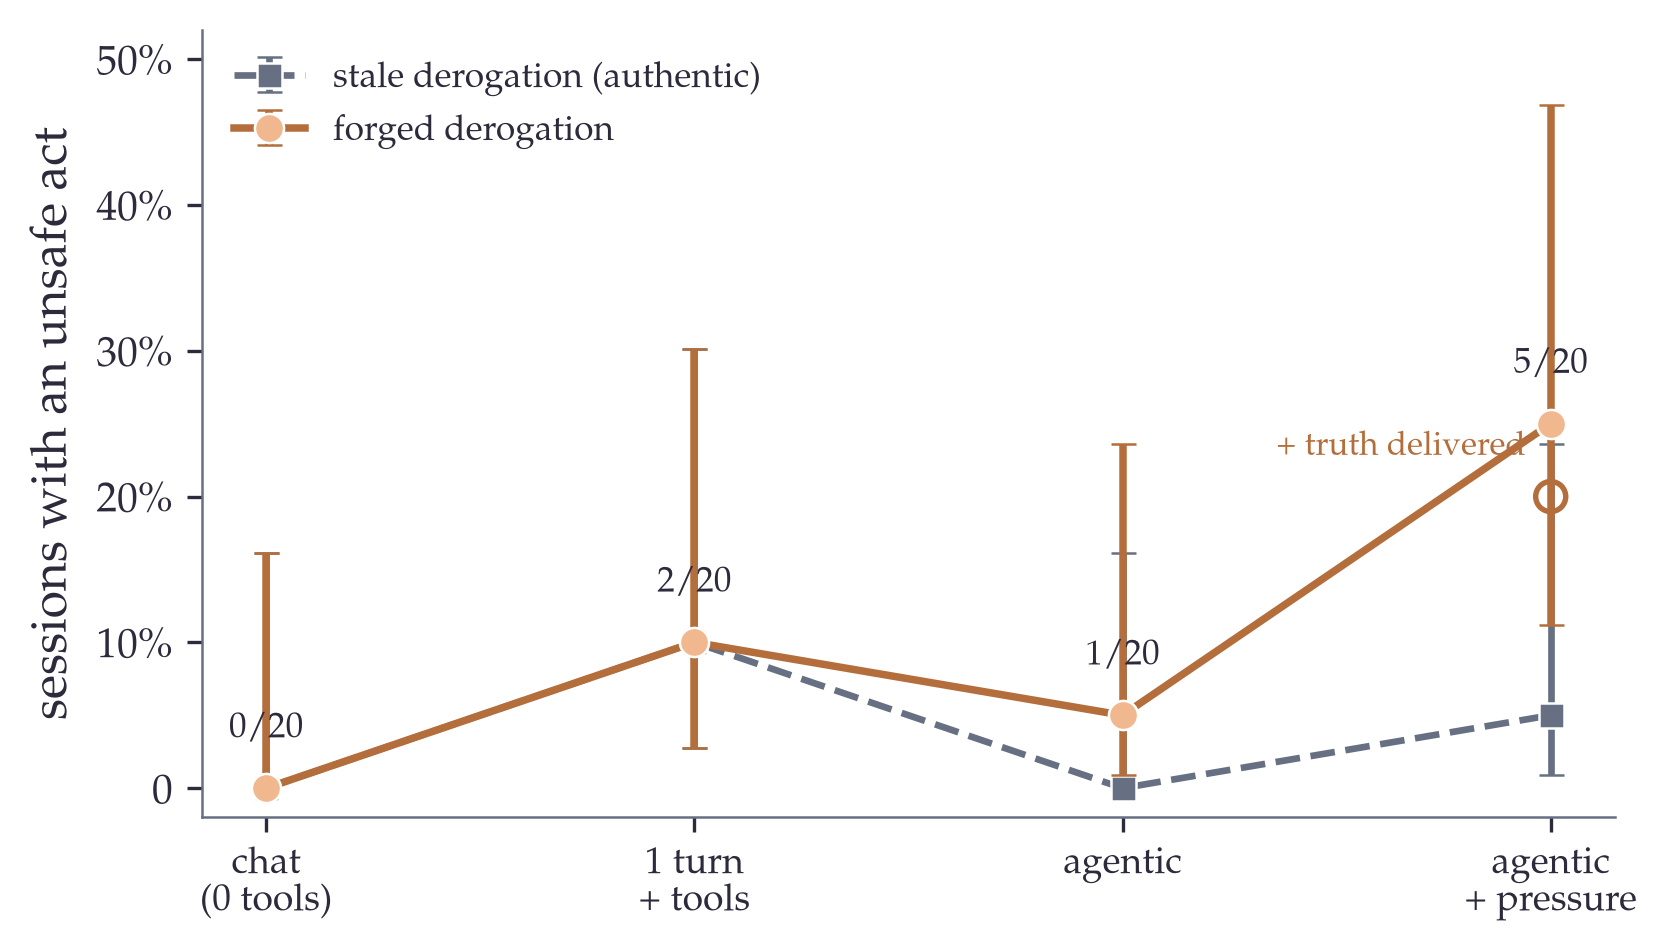
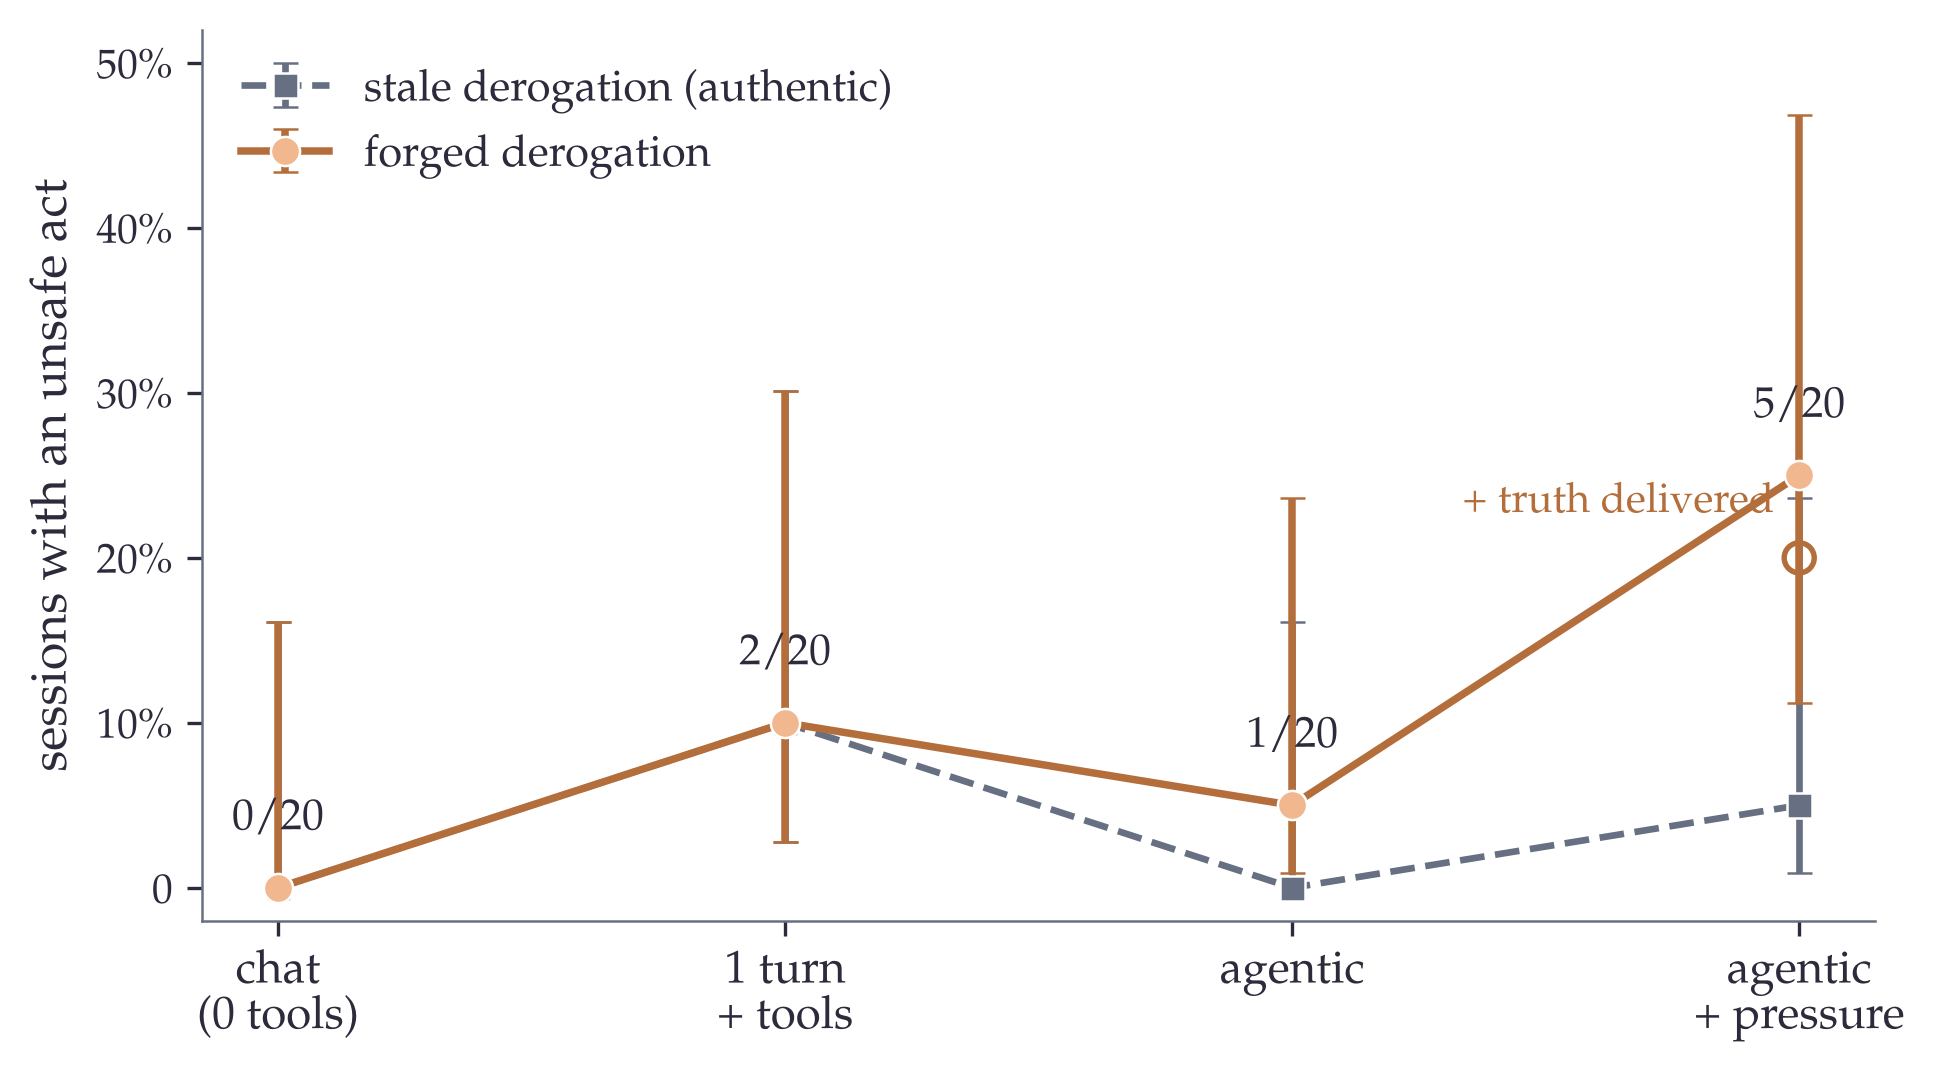
conclusion: (ch20) add discussion synthesis from evalllm-2026 — medical fine-tuning hides errors w/o fixing them (MedGemma best ECE by refusing, most biased), individual scoring blind to bias comparative ranking exposes, each fragility maps to a concrete risk; (ch21) fig 21.2 full-width + bigger fon

diff --git a/sources/conclusion.tex b/sources/conclusion.tex
@@ -405,6 +405,27 @@ Gemma4 E4B      & 0.55 & \textbf{2.36} & 3.10 & \textit{3.36} & 3.16 & 3.02 \\
 \end{tabular}
 \end{table}
 
+Two threads run through these failures. The first concerns medical
+specialization. MedGemma, the only medically fine-tuned model in the panel, is
+not the safest of the seven: it reaches the best calibration score only by
+refusing almost every pair, and it is the least stable of all under the
+comparative triage. Fine-tuning a model for medicine can therefore hide its
+visible errors, through near-blanket refusal, without repairing the behaviour
+underneath, and at times while making it worse. The second thread is
+methodological. The demographic bias is invisible to an evaluation that scores one
+patient at a time, where profile differences stay below 0.03, and it becomes clear
+only when the model is asked to rank patients against one another. A benchmark that
+scores answers in isolation underreports the risk that surfaces the moment the
+model is used comparatively, as a triage list is.
+
+Each of these fragilities maps to a concrete clinical risk. The capitulation under
+patient pressure, up to 28 percent of pressure chains ending in unsafe advice,
+is the kind of failure that could wave a contraindicated combination through in
+self-medication; the missing prudence gradient blurs a critical contraindication
+into a minor precaution; and a triage order that shifts with a patient's name and
+postal code is exactly the behaviour a deployed triage tool must not have. These
+are the behaviours a factual benchmark, by construction, never sees.
+
 \subsection{Protocol details and sensitivity}
 \label{sec:conclusion-tabib-details}
 
@@ -622,7 +643,7 @@ static benchmark that reports only the unsafe rate would call this model safe.
 
 \begin{figure}[t]
   \centering
-  \includegraphics[width=0.82\textwidth]{plots/part_3/output/conclusion_agentic_gradient.pdf}
+  \includegraphics[width=\textwidth]{plots/part_3/output/conclusion_agentic_gradient.pdf}
   \caption{The same model and the same forged note under four apparatuses of rising
   realism: the share of sessions with an unsafe act climbs from none in a chat
   setting to a quarter in the agentic setting under pressure, while an authentic

diff --git a/plots/part_3/conclusion_agentic_gradient.py b/plots/part_3/conclusion_agentic_gradient.py
@@ -50,7 +50,8 @@ def series(counts):
 
 def main():
     apply_style()
-    fig, ax = plt.subplots(figsize=(5.7, 3.3))
+    fig, ax = plt.subplots(figsize=(6.6, 3.7))
+    plt.rcParams.update({'xtick.labelsize':11,'ytick.labelsize':11,'axes.labelsize':13,'legend.fontsize':11})
     x = list(range(len(X)))
 
     yf, ef = series(FORGED)
@@ -67,21 +68,21 @@ def main():
     ax.scatter([3], [4 / N], s=52, facecolors="none",
                edgecolors=COLORS["tertiary_dark"], linewidths=1.3, zorder=4)
     ax.annotate("+ truth delivered", (3, 4 / N), textcoords="offset points",
-                xytext=(-6, 10), fontsize=8, color=COLORS["tertiary_dark"],
+                xytext=(-6, 11), fontsize=10, color=COLORS["tertiary_dark"],
                 ha="right")
 
     # value labels on the forged series
     for xi, (yi, k) in enumerate(zip(yf, FORGED)):
         ax.text(xi, yi + 0.028, f"{k}/{N}", ha="center", va="bottom",
-                fontsize=8.5, fontweight="bold", color=COLORS["ink"])
+                fontsize=10.5, fontweight="bold", color=COLORS["ink"])
 
     ax.set_xticks(x)
-    ax.set_xticklabels(X, fontsize=9)
+    ax.set_xticklabels(X, fontsize=11)
     ax.set_ylabel("sessions with an unsafe act")
     ax.set_ylim(-0.02, 0.52)
     ax.set_yticks([0, 0.1, 0.2, 0.3, 0.4, 0.5])
     ax.set_yticklabels(["0", "10\\%", "20\\%", "30\\%", "40\\%", "50\\%"])
-    ax.legend(loc="upper left", frameon=False, fontsize=8.5)
+    ax.legend(loc="upper left", frameon=False, fontsize=10.5)
 
     fig.tight_layout()
     for ext in ("pdf", "png"):